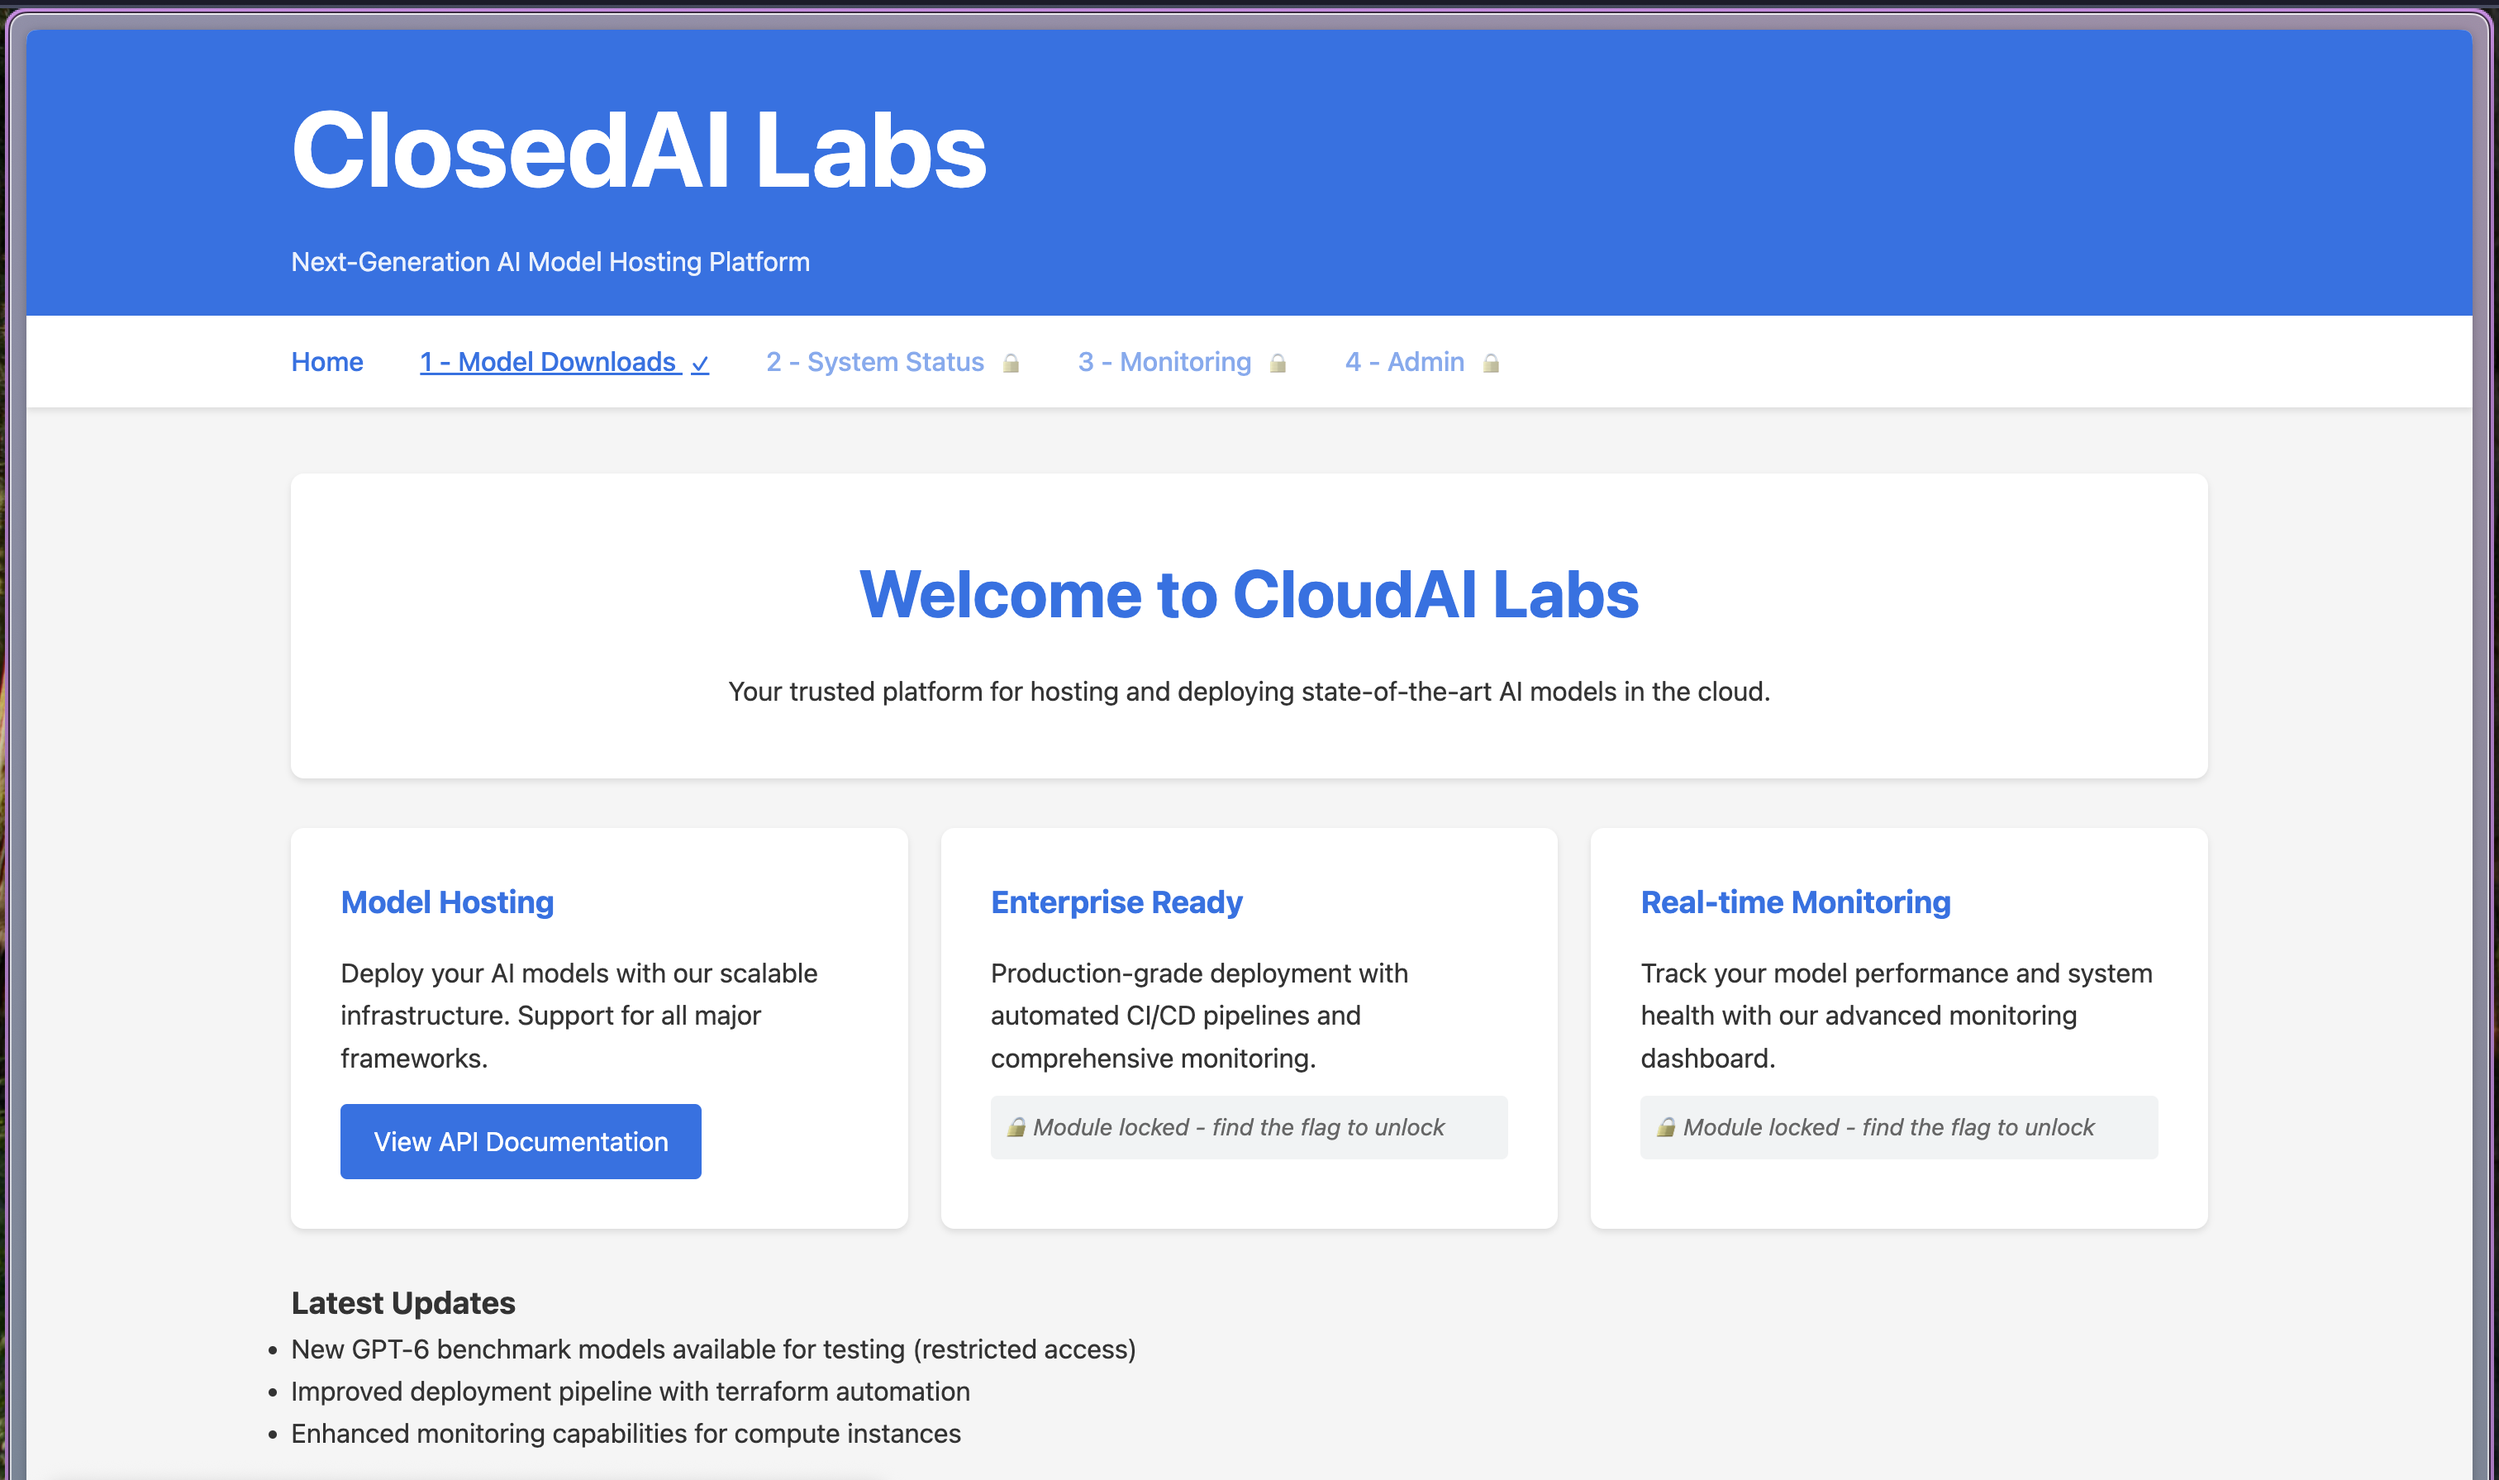
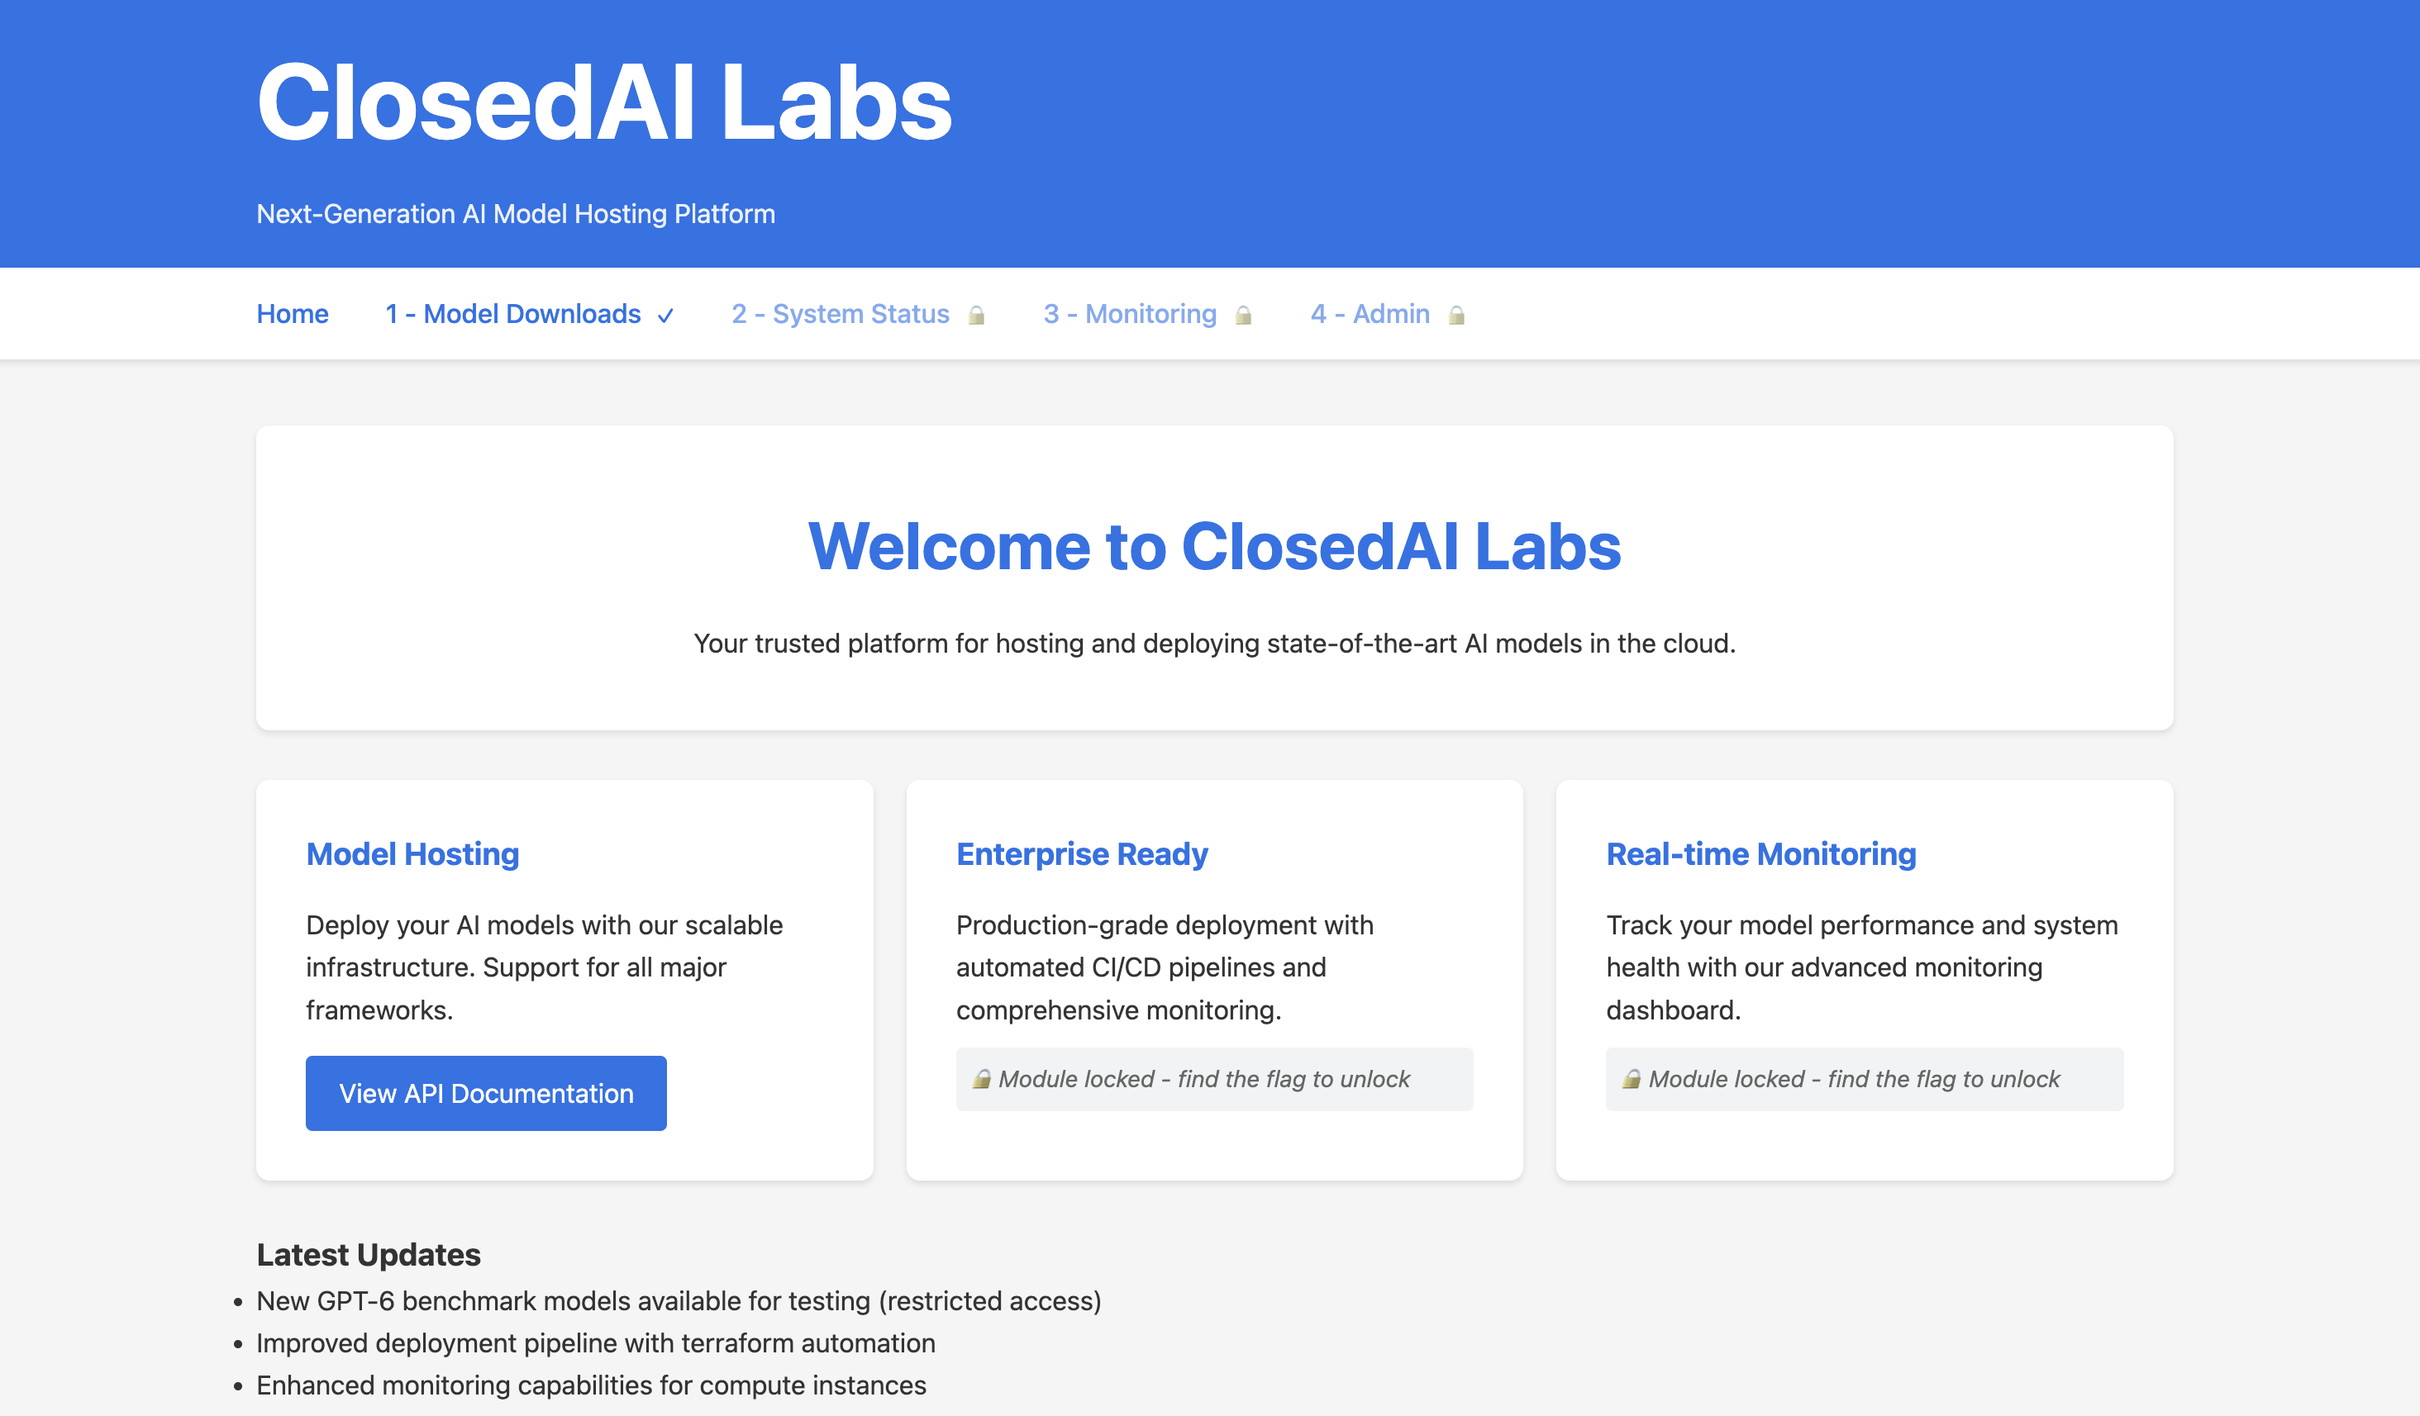
w2d5 fix

diff --git a/w2d5/setup-code/tests/utils/test-data.ts b/w2d5/setup-code/tests/utils/test-data.ts
@@ -13,7 +13,7 @@ export const EXPECTED_VALUES = {
   prodBucketName: `modeldata-prod-${TEST_CONFIG.projectId}`,
   serviceAccountFile: 'bucket-service-account.json',
   flagFile: 'secret_benchmarks/flag1_gpt5_benchmarks.txt',
-  flagContent: "You found flag 1! CloudAI's GPT-5 benchmarks: 99.9% on all tasks!",
+  flagContent: "You found flag 1! CloudAI's GPT-6 benchmarks: 99.9% on all tasks!",
   portalInfo: 'portal_info.txt',
 };
 

diff --git a/w2d5/README.md b/w2d5/README.md
@@ -1,12 +1,10 @@
-# Cloud Security
-
-Welcome to w2d5 - Cloud Security! :D
-
-[Webapp screenshot](./setup-code/ClosedAI-Homepage.png)
+# Welcome to Cloud Security
 
 Today, you'll be hacking ClosedAI - a recent startup aiming to unleash GPT6 on the world, no matter the consequences.
 
-Your task: to hack them and steal it use against them before they do 😜
+Your task: to hack them and delete the weights before they get there 😜
+
+![Webapp screenshot](./setup-code/ClosedAI-Homepage.png)
 
 ### Getting Started
 

diff --git a/w2d5/setup-code/docs/3-ui-integration-plan.md b/w2d5/setup-code/docs/3-ui-integration-plan.md
@@ -6,7 +6,7 @@ CloudAI Labs is a fictional ML model hosting platform used to teach GCP security
 ## Learning Modules Overview
 
 ### Module 1: Public Bucket Exposure
-**Scenario:** CloudAI Labs' dev bucket exposed, containing "leaked GPT-5 benchmarks"  
+**Scenario:** CloudAI Labs' dev bucket exposed, containing "leaked GPT-6 benchmarks"  
 **Skills:** Cloud storage enumeration, service account compromise  
 **Infrastructure:** 
 - Dev bucket: `modeldata-dev-[PROJECT_ID]` (public read)

diff --git a/w2d5/setup-code/docs/1-custom-content-module-plan.md b/w2d5/setup-code/docs/1-custom-content-module-plan.md
@@ -36,7 +36,7 @@ Context: "CloudAI Labs" - A model hosting platform (like Hugging Face) with secu
 - Go to IAM, Create new Service Account 'dev-bucket-sa'
   - Student selects tf-preconfigured 'Dev Bucket Access' role
 
-**Engagement**: "CloudAI's 'secret' GPT-5 benchmarks leaked. No insider needed - how?"
+**Engagement**: "CloudAI's 'secret' GPT-6 benchmarks leaked. No insider needed - how?"
 
 
 ## Module 2: Environment Secrets & State Exposure
